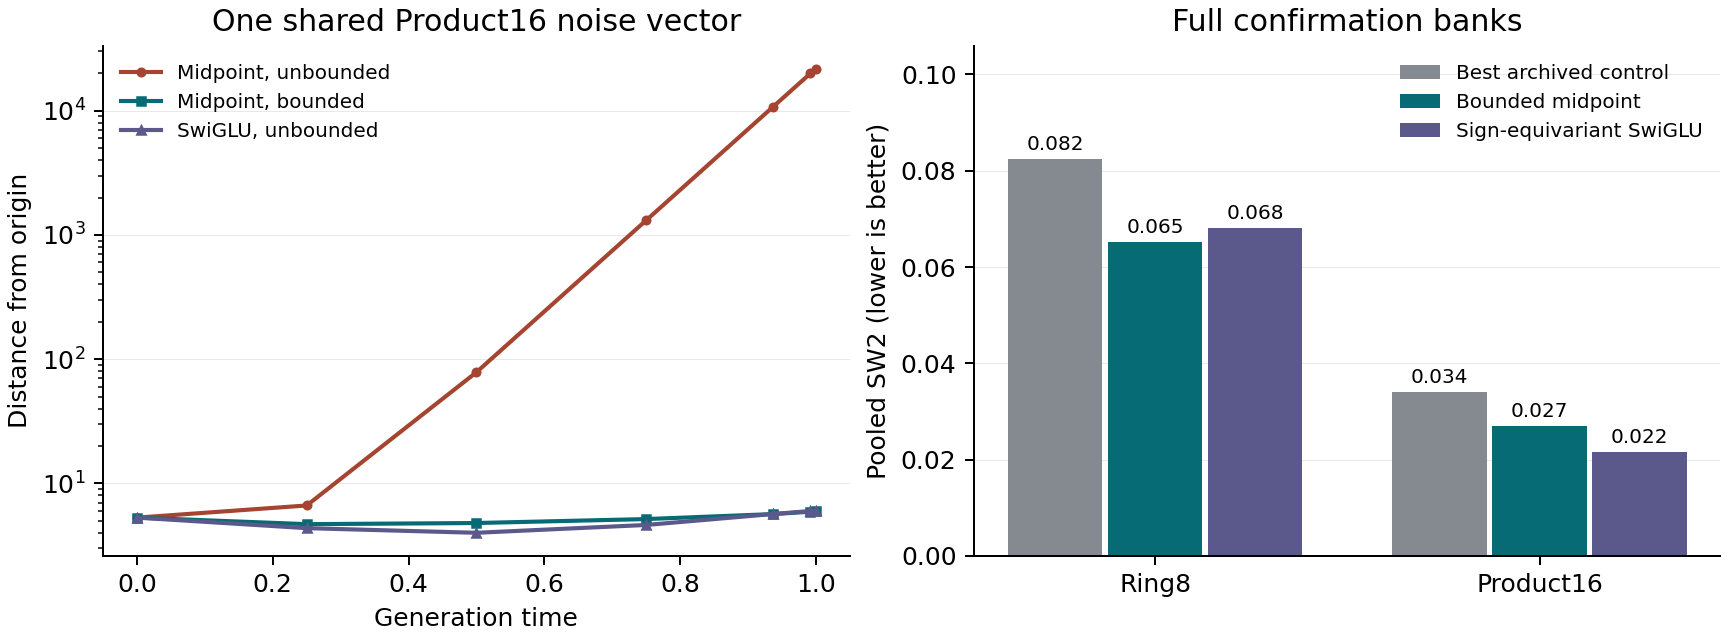
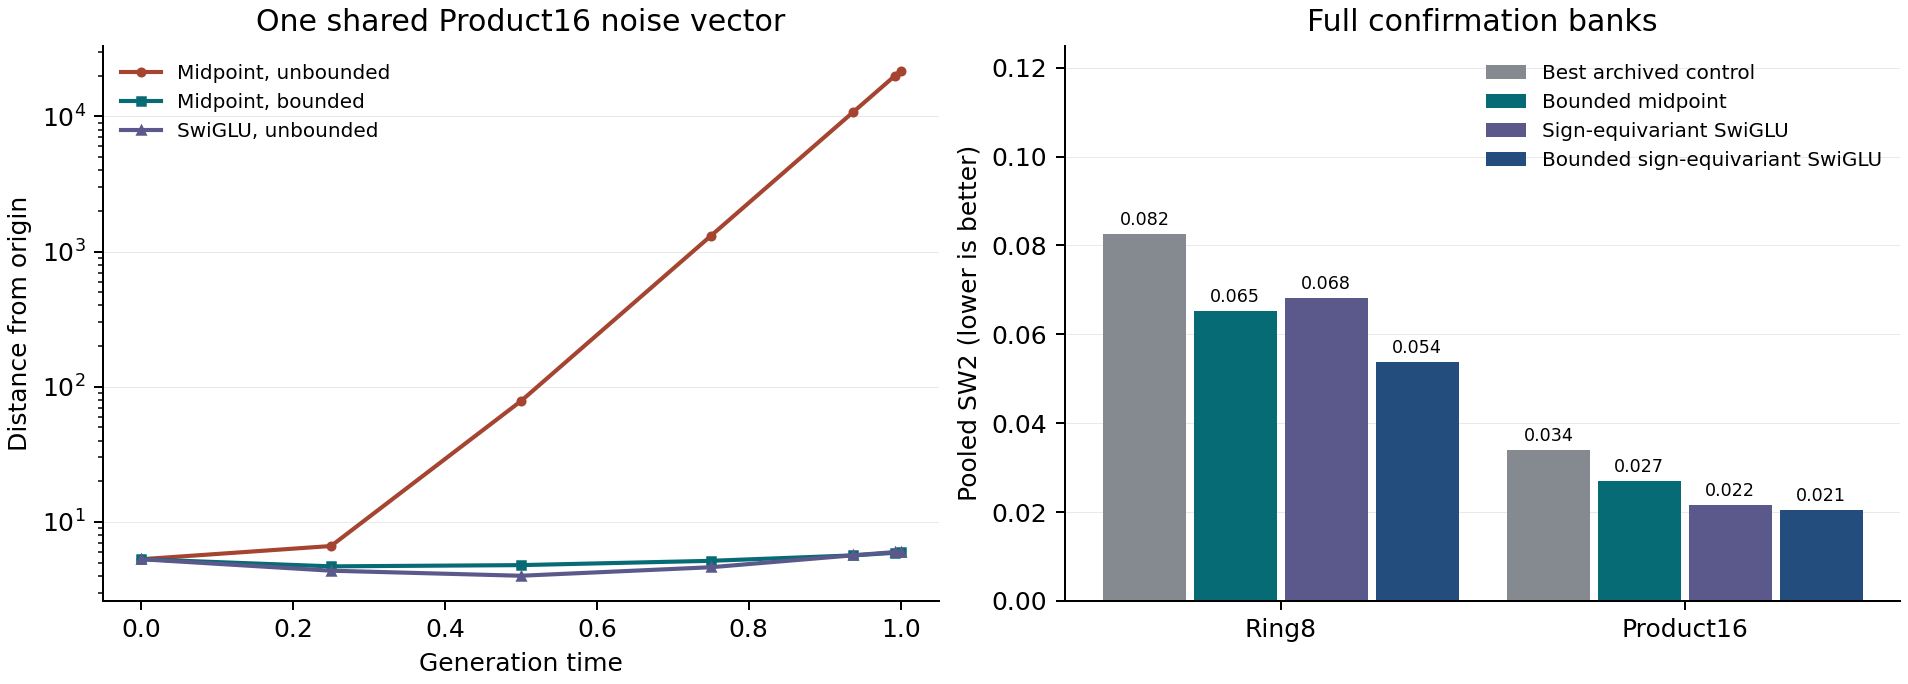
figures: show the identical bounded readout alongside the original controls

diff --git a/studies/muon_pd_20261102/refresh_20261123/plot_case.py b/studies/muon_pd_20261102/refresh_20261123/plot_case.py
@@ -9,7 +9,8 @@ import numpy as np
 doc=Path(__file__).resolve().parents[3]/'docs/report4/midpoint-refresh'
 case=json.loads((doc/'escape-case.json').read_text())
 results=json.loads((doc/'archived-confirmation.json').read_text())
-fig,(a,b)=plt.subplots(1,2,figsize=(9.6,3.55),layout='constrained')
+bounded=json.loads((doc/'same-readout-swiglu.json').read_text())
+fig,(a,b)=plt.subplots(1,2,figsize=(10.6,3.8),layout='constrained')
 colors=['#a54430','#076b76','#5b598b']
 labels=['Midpoint, unbounded','Midpoint, bounded','SwiGLU, unbounded']
 markers=['o','s','^']
@@ -22,15 +23,16 @@ a.set(yscale='log',xlabel='Generation time',ylabel='Distance from origin',
 a.legend(frameon=False,fontsize=8,loc='upper left')
 groups=['gmm_ring8_2d','rotated_product_bimodal_16d']
 x=np.arange(2)
-for idx,(label,color) in enumerate(zip(['Best archived control','Bounded midpoint','Sign-equivariant SwiGLU'],['#848a8f',colors[1],colors[2]])):
+for idx,(label,color) in enumerate(zip(['Best archived control','Bounded midpoint','Sign-equivariant SwiGLU','Bounded sign-equivariant SwiGLU'],['#848a8f',colors[1],colors[2],'#234d7d'])):
     vals=[]
     for ds in groups:
         mid,=[r for r in results if r['dataset']==ds and r['family']=='bounded_odd_state_midpoint4']
         other,=[r for r in results if r['dataset']==ds and r['family'].startswith('odd_swiglu')]
-        vals.append([mid['best_legacy_sw2'],mid['pooled_sw2'],other['pooled_sw2']][idx])
-    bars=b.bar(x+(idx-1)*.26,vals,width=.245,label=label,color=color)
-    b.bar_label(bars,fmt='%.3f',fontsize=8,padding=2)
-b.set(title='Full confirmation banks',ylabel='Pooled SW2 (lower is better)',ylim=(0,.106),xticks=x,xticklabels=['Ring8','Product16'])
+        matched,=[r for r in bounded if r['dataset']==ds]
+        vals.append([mid['best_legacy_sw2'],mid['pooled_sw2'],other['pooled_sw2'],matched['confirmation_sw2']][idx])
+    bars=b.bar(x+(idx-1.5)*.225,vals,width=.205,label=label,color=color)
+    b.bar_label(bars,fmt='%.3f',fontsize=7,padding=2)
+b.set(title='Full confirmation banks',ylabel='Pooled SW2 (lower is better)',ylim=(0,.125),xticks=x,xticklabels=['Ring8','Product16'])
 b.legend(frameon=False,fontsize=8,loc='upper right')
 for ax in (a,b):
     ax.spines[['top','right']].set_visible(False)
